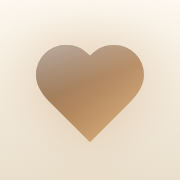
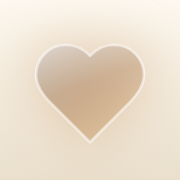
Nossa Casa: coração com acabamento de vidro (mais translúcido)
- Baixa a opacidade do coração e adiciona bordinha de luz (efeito vidro fosco),
  mantendo o fundo creme; atualiza os ícones.

Claude-Session: https://claude.ai/code/session_01LwMQikdrHLufuy5Ss6znJv

Changed region(s): [[0.1944, 0.2222, 0.8056, 0.8056]]

diff --git a/components/ui.js b/components/ui.js
@@ -35,8 +35,8 @@ export function LogoMark({ size = 42, radius = 12 }) {
           <stop offset="1" stopColor="#E3BA85" />
         </linearGradient>
         <linearGradient id="lm-glass" x1="0" y1="0" x2="0.4" y2="1">
-          <stop offset="0" stopColor="#FFFFFF" stopOpacity="0.55" />
-          <stop offset="0.5" stopColor="#FFFFFF" stopOpacity="0.12" />
+          <stop offset="0" stopColor="#FFFFFF" stopOpacity="0.62" />
+          <stop offset="0.5" stopColor="#FFFFFF" stopOpacity="0.14" />
           <stop offset="1" stopColor="#FFFFFF" stopOpacity="0" />
         </linearGradient>
         <filter id="lm-glow" x="-45%" y="-45%" width="190%" height="190%">
@@ -48,10 +48,11 @@ export function LogoMark({ size = 42, radius = 12 }) {
       <g transform="translate(9.6,12) scale(3.36)">
         <path d={CORACAO} fill="#C79A69" opacity="0.4" filter="url(#lm-glow)" />
       </g>
-      {/* coração principal, translúcido, com reflexo de vidro */}
+      {/* coração principal em vidro: translúcido, reflexo e bordinha de luz */}
       <g transform="translate(14,16) scale(3)">
-        <path d={CORACAO} fill="url(#lm-heart)" opacity="0.94" />
+        <path d={CORACAO} fill="url(#lm-heart)" opacity="0.5" />
         <path d={CORACAO} fill="url(#lm-glass)" />
+        <path d={CORACAO} fill="none" stroke="#FFFFFF" strokeOpacity="0.55" strokeWidth="0.5" strokeLinejoin="round" />
       </g>
     </svg>
   );
